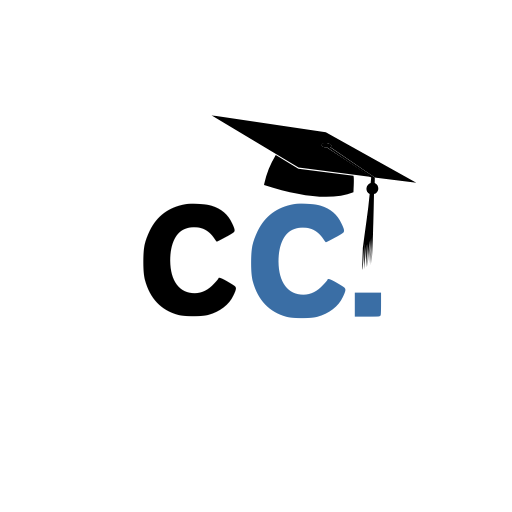
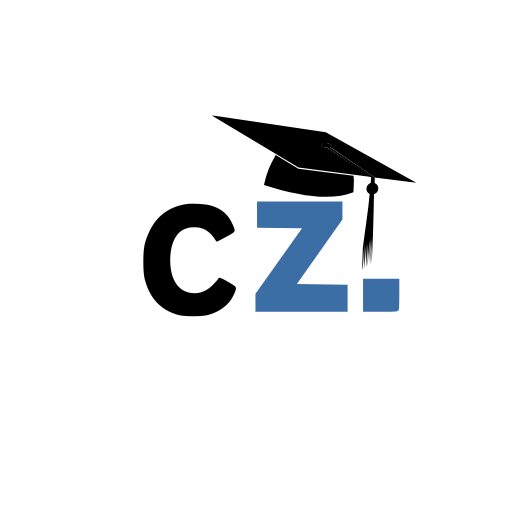
update

Changed region(s): [[0.4688, 0.375, 0.7812, 0.625]]

diff --git a/Firebase/Firebase.js b/Firebase/Firebase.js
@@ -3,13 +3,13 @@ import {getMessaging} from 'firebase/messaging';
 import {getStorage} from 'firebase/storage';
 
 const firebaseConfig = {
-  apiKey: 'AIzaSyBhsaau-Xa0qe6QCMOvxUKqh2ety4mC6H0',
-  authDomain: 'codecampus-99fad.firebaseapp.com',
-  projectId: 'codecampus-99fad',
-  storageBucket: 'codecampus-99fad.appspot.com',
-  messagingSenderId: '1029306297228',
-  appId: '1:1029306297228:web:f148c83413487f86a2c4a9',
-  measurementId: 'G-GTLM1WS0FE',
+  apiKey: 'AIzaSyDCTmSaOOdCOpAAgbZ2L6182v3_Oe6nz94',
+  authDomain: 'codezack-83869.firebaseapp.com',
+  projectId: 'codezack-83869',
+  storageBucket: 'codezack-83869.firebasestorage.app',
+  messagingSenderId: '132569783886',
+  appId: '1:132569783886:web:dca9c6bd318248db9c2d1f',
+  measurementId: 'G-FM1PMLTFNE',
 };
 
 // Initialize Firebase

diff --git a/android/app/src/main/java/com/codecampus/MainActivity.kt b/android/app/src/main/java/com/codecampus/MainActivity.kt
@@ -1,4 +1,4 @@
-package com.codecampus
+package com.codezack
 
 import com.facebook.react.ReactActivity
 import com.facebook.react.ReactActivityDelegate

diff --git a/android/app/src/main/java/com/codecampus/MainApplication.kt b/android/app/src/main/java/com/codecampus/MainApplication.kt
@@ -1,4 +1,4 @@
-package com.codecampus
+package com.codezack
 
 import android.app.Application
 import com.facebook.react.PackageList
